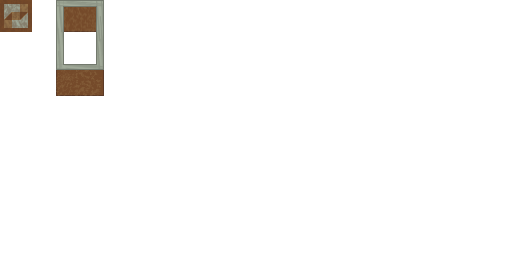
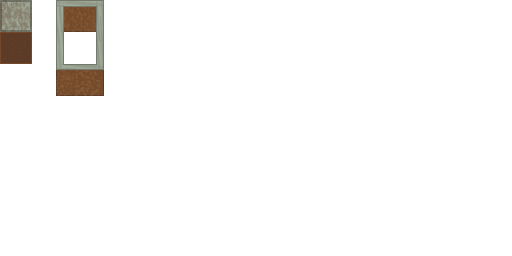
tilemap is working, I'm terrible at art

Changed region(s): [[0.0, 0.0, 0.0625, 0.25]]

diff --git a/src/tilemap.cpp b/src/tilemap.cpp
@@ -30,78 +30,54 @@ Tilemap::~Tilemap() {
 
 }
 
-//setup tiles
-void Tilemap::init() {
+//returns the grid as 2d vector
+std::vector< std::vector < int > > Tilemap::getGrid() {
+	return grid;
+}
+
+//sets the grid
+// takes a 2d vector
+void Tilemap::setGrid(std::vector< std::vector < int > > _grid) {
+	grid = _grid;
+}
+
+//generates the grid for our testroom
+void Tilemap::genTestRoom() {
+	//init to all floor
 	grid = std::vector<std::vector<int>>(height, std::vector<int>(width, 1));
-	//just going to hardcode testroom
+
+	//just going to hardcode walls
 	for(int row=0;row<height;row++) {
 		grid[row][0] = 2;
 		grid[row][width-1] = 2;
+		grid[row][width/2] = 2;
 	}
 	for(int col=0;col<width;col++) {
 		grid[0][col] = 2;
 		grid[height-1][col] = 2;
 	}
+	//lets put a hole in the wall so we can peep while the ooze asexually reproduces ;)
+	grid[height/2][width/2] = 1;
+}
+
+//setup tiles
+void Tilemap::init() {
+	grid = std::vector<std::vector<int>>(height, std::vector<int>(width, 0));
+	
 	//ground tile
 	tiles[0] = {0,0,tilesize,tilesize};
-	//wall tiles based on bitmasking
-	tiles[6] = {tilesize,0,tilesize,tilesize};
-	tiles[10] = {2*tilesize,0,tilesize,tilesize}; //n but could be s
-	tiles[12] = {3*tilesize,0,tilesize,tilesize};
-	tiles[5] = {tilesize,tilesize,tilesize,tilesize}; //w but could be e
-	//tiles["e_wall"] = {3*tilesize,tilesize,tilesize,tilesize};//e but could be w
-	tiles[3] = {tilesize,2*tilesize,tilesize,tilesize};
-	//tiles["s_wall"] = {2*tilesize,2*tilesize,tilesize,tilesize};//s but could be n
-	tiles[9] = {3*tilesize,2*tilesize,tilesize,tilesize};
+	//wall tile
+	tiles[1] = {0,tilesize,tilesize,tilesize};
 }
-
-int Tilemap::getMask(int row, int col) {
-	int bmask = 0;
-	if(row > 0 && grid[row-1][col] == 2) {
-		bmask += 1;
-	}
-	if(col < (width-1) && grid[row][col+1] == 2) {
-		bmask += 2;
-	}
-	if(row < (height-1) && grid[row+1][col] == 2) {
-		bmask += 4;
-	}
-	if(col > width && grid[row][col-1] == 2) {
-		bmask += 8;
-	}
-	return bmask;
-}
-
-SDL_Rect Tilemap::getWall(int row, int col) {
-	//gonna use some bitmasking to get the right wall tile
-	int mask = getMask(row, col);
-	
-	//need to deal with n/s e/w
-	return tiles[mask];
-}
-
-/*use bit masking to get correct wall tiles
-void Tilemap::setWalls() {
-	for(int row=0;row<height;row++) {
-		for(int col=0;col<width;col++) {
-			if(grid[row][col] == 0) {
-				//floor
-				
-			}
-			else if(grid[row][col] == 1) {
-				//wall
-				tile = getWall(row, col);
-			}
-			//draw tile
-		}
-	}
-}*/
 
 //draw the tiles
 SDL_Renderer* Tilemap::draw(SDL_Renderer* render) {
 	for(int row=0;row<height;row++) {
 		for(int col=0;col<width;col++) {
 			//check if tile is floor or wall
+			//0 = nothing
+			//1 = ground
+			//2 = wall
 			SDL_Rect tile;
 			if(grid[row][col] == 1) {
 				//floor
@@ -109,7 +85,7 @@ SDL_Renderer* Tilemap::draw(SDL_Renderer* render) {
 			}
 			else if(grid[row][col] == 2) {
 				//wall
-				tile = getWall(row, col);
+				tile = tiles[1];
 			}
 			//draw tile
 			SDL_Rect dest = {col*tilesize, row*tilesize, tilesize, tilesize};

diff --git a/src/testroom.cpp b/src/testroom.cpp
@@ -49,6 +49,7 @@ void TestRoom::init(SDL_Renderer* reference){
 	p.init(reference);
 	o.init(reference);
 	map.init();
+	map.genTestRoom();
 	
 	//Player and HUD in the Room
 	objectList["player"] = &p;
@@ -56,10 +57,10 @@ void TestRoom::init(SDL_Renderer* reference){
 	objectList["ooze"] = &o;
 
 	//Init walls in the room
-	leftWall = {screen_w/4, screen_h/4, screen_w/12, screen_h/2};
-	rightWall = {screen_w/4 * 3 - screen_w/12, screen_h/4, screen_w/12, screen_h/2};
-	upperWall = {screen_w/4, screen_h/4, screen_w/2, screen_h/12};
-	centerPillar = {screen_w/2, screen_h/2 + (tile_s * 5), tile_s};
+	//leftWall = {screen_w/4, screen_h/4, screen_w/12, screen_h/2};
+	//rightWall = {screen_w/4 * 3 - screen_w/12, screen_h/4, screen_w/12, screen_h/2};
+	//upperWall = {screen_w/4, screen_h/4, screen_w/2, screen_h/12};
+	//centerPillar = {screen_w/2, screen_h/2 + (tile_s * 5), tile_s};
 }
 
 void TestRoom::update(Uint32 ticks){
@@ -136,11 +137,11 @@ SDL_Renderer* TestRoom::draw(SDL_Renderer *renderer){
 	}
 
 	//Draws walls in the room
-	SDL_SetRenderDrawColor(renderer, 0, 0xFF, 0, 0);
-	SDL_RenderFillRect(renderer, &leftWall);
-	SDL_RenderFillRect(renderer, &rightWall);
-	SDL_RenderFillRect(renderer, &upperWall);
-	centerPillar.drawCircle(renderer);
+	//SDL_SetRenderDrawColor(renderer, 0, 0xFF, 0, 0);
+	//SDL_RenderFillRect(renderer, &leftWall);
+	//SDL_RenderFillRect(renderer, &rightWall);
+	//SDL_RenderFillRect(renderer, &upperWall);
+	//centerPillar.drawCircle(renderer);
 
 	return renderer;
 }

diff --git a/src/player.cpp b/src/player.cpp
@@ -61,11 +61,6 @@ void Player::init(SDL_Renderer* gRenderer){
 	addAnimation("right", Animation(getSheet().getRow(3)));
 	setAnimation("down");
 
-    //This should be removed ASAP
-    lWall = {screen_w/4, screen_h/4, screen_w/12, screen_h/2};
-	rWall = {screen_w/4 * 3 - screen_w/12, screen_h/4, screen_w/12, screen_h/2};
-	uWall = {screen_w/4, screen_h/4, screen_w/2, screen_h/12};
-	cPillar = {screen_w/2, screen_h/2 + (tile_s * 5), tile_s};
 }
 
 void Player::setSpriteSheet(SDL_Texture* _sheet, int _cols, int _rows) {
@@ -254,7 +249,7 @@ void Player::checkCollision(int curX, int curY)
     //In the future, we might need to alter this function to take in an object that
     //represents what the player is colliding with. This shouldn't be too difficult
 
-    //LEFT WALL
+    /*LEFT WALL
     if(collision::checkCol(playerRect, lWall))
     {
         playerRect.x = curX;
@@ -297,7 +292,7 @@ void Player::checkCollision(int curX, int curY)
     {
         playerRect.y = curY;
 		playerRect.x += x_vel;
-    } 
+    } */
 }
 
 void Player::checkEnemy(int _xdv, int _ydv){

diff --git a/src/include/tilemap.h b/src/include/tilemap.h
@@ -19,10 +19,10 @@ public:
 	Tilemap(SDL_Texture* tex, int _width, int _height, int _tilesize);
 	Tilemap();
 	~Tilemap();
+	std::vector< std::vector < int > > getGrid();
+	void setGrid(std::vector< std::vector < int > > _grid);
+	void genTestRoom();
 	void init();
-	int getMask(int row, int col);
-	SDL_Rect getWall(int row, int col);
-	//void setWalls();
 	SDL_Renderer* draw(SDL_Renderer* render);
 };
 
